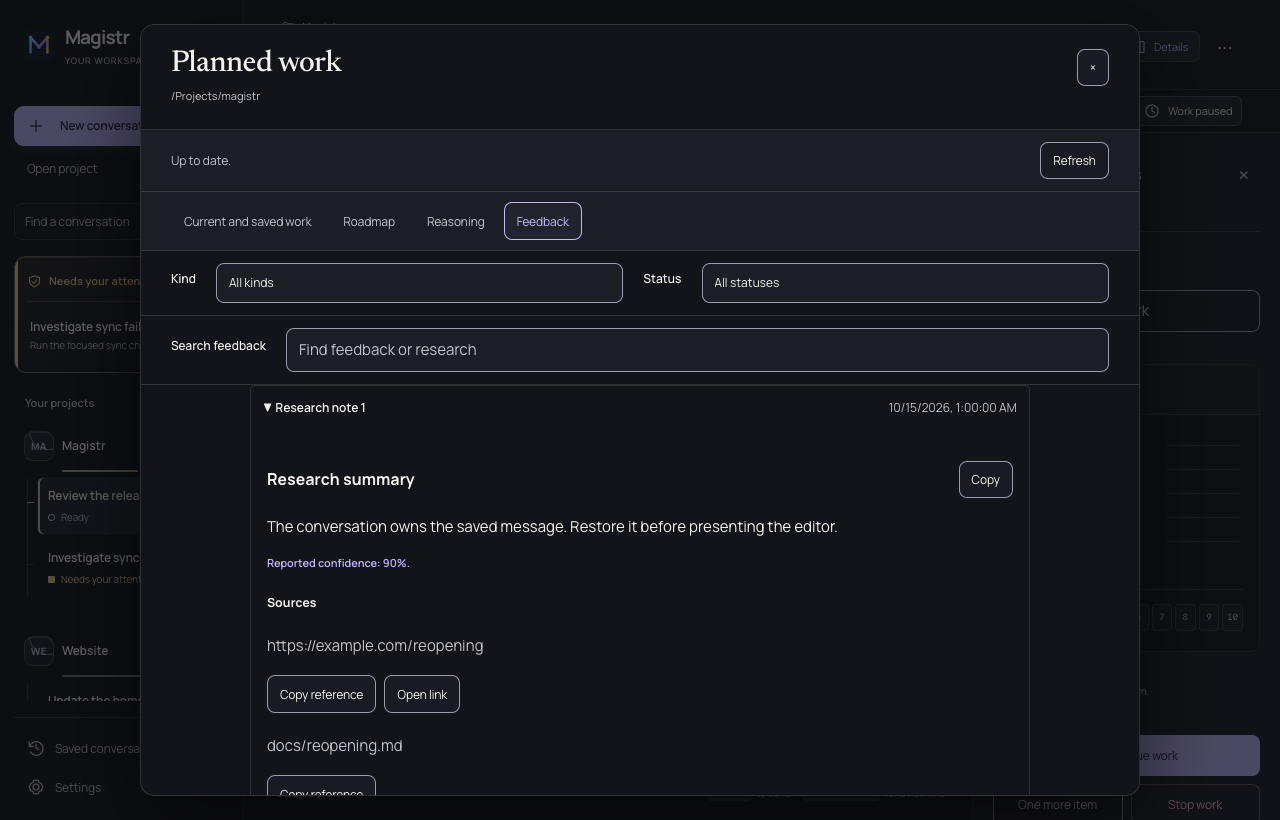
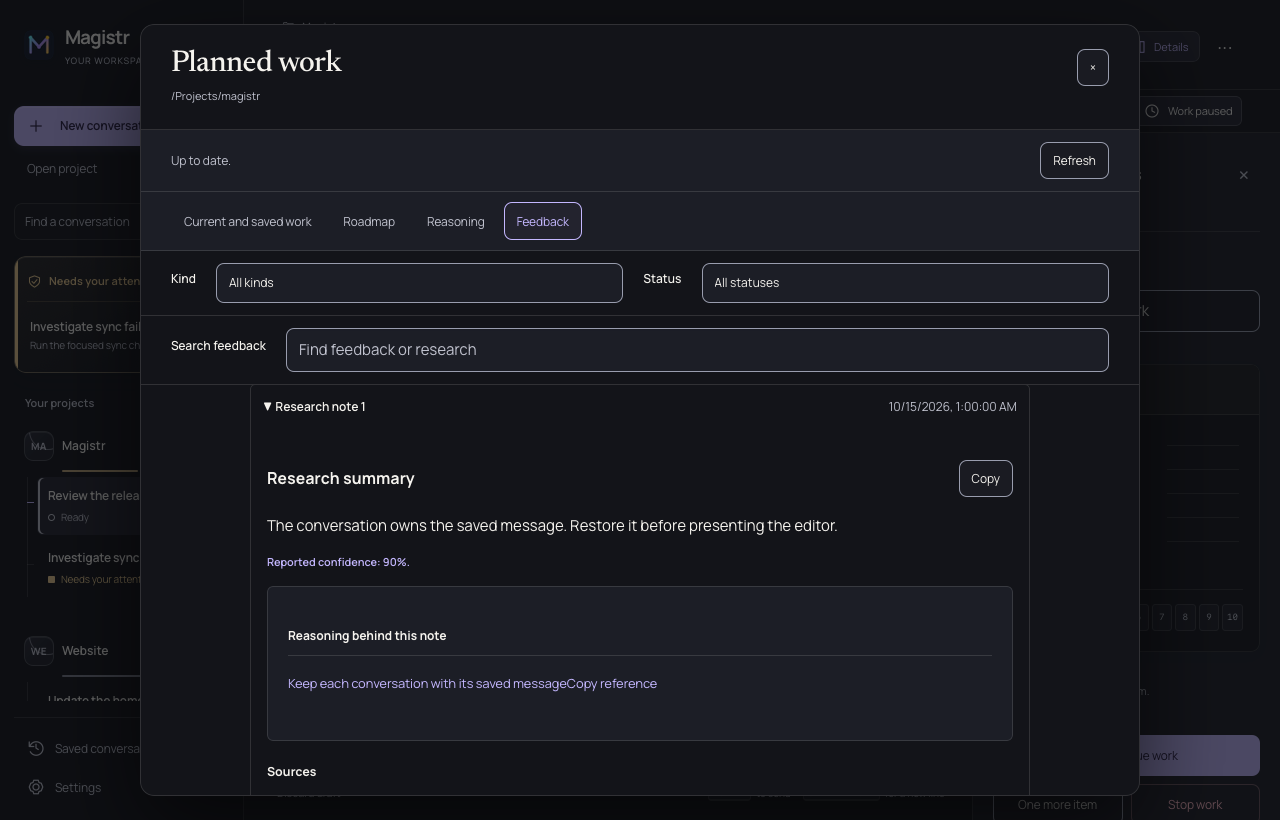
feat(desktop): follow feedback references to work and reasoning

diff --git a/crates/magistr-desktop/ui/index.html b/crates/magistr-desktop/ui/index.html
@@ -126,7 +126,7 @@
 </dialog>
 <dialog id="work-browser" aria-labelledby="work-browser-title">
   <header class="work-browser-heading"><div><h2 id="work-browser-title" tabindex="-1">Planned work</h2><p id="work-browser-project"></p></div><button id="work-browser-close" aria-label="Close planned work">×</button></header>
-  <div class="work-browser-tools"><p id="work-browser-state" role="status"></p><button id="work-browser-refresh">Refresh</button></div>
+  <div class="work-browser-tools"><p id="work-browser-state" role="status"></p><button id="work-browser-return" hidden>Return to feedback</button><button id="work-browser-refresh">Refresh</button></div>
   <nav id="work-browser-tabs" class="work-browser-tabs" role="tablist" aria-label="Work view"><button id="work-tab-work" role="tab" aria-selected="true" aria-controls="work-browser-content" data-work-view="work">Current and saved work</button><button id="work-tab-roadmap" role="tab" aria-selected="false" aria-controls="work-browser-content" tabindex="-1" data-work-view="roadmap">Roadmap</button><button id="work-tab-reasoning" role="tab" aria-selected="false" aria-controls="work-browser-content" tabindex="-1" data-work-view="reasoning">Reasoning</button><button id="work-tab-feedback" role="tab" aria-selected="false" aria-controls="work-browser-content" tabindex="-1" data-work-view="feedback">Feedback</button></nav>
   <div id="work-reasoning-selection" class="work-run-selection" hidden><label for="work-browser-reasoning">Reasoning to inspect</label><select id="work-browser-reasoning"></select><label for="work-browser-branch">Investigation</label><select id="work-browser-branch"></select></div>
   <div id="work-reasoning-search" class="work-run-selection" hidden><label for="work-browser-reasoning-search">Search all reasoning</label><input id="work-browser-reasoning-search" type="search" autocomplete="off" placeholder="Find a recorded decision"></div>

diff --git a/docs/reference/cockpit-modules.md b/docs/reference/cockpit-modules.md
@@ -37,6 +37,7 @@ desktop workspace. Companion Rust tests live beside their owners.
 - `crates/magistr-desktop/ui/work_reasoning_links.mjs` — direct references, revisions and project-wide identity resolution.
 - `crates/magistr-desktop/ui/work_reasoning_branch.mjs` — session-scoped investigations and recorded lifecycle.
 - `crates/magistr-desktop/ui/work_prose.mjs` — complete literal authored prose and exact copying.
+- `crates/magistr-desktop/ui/work_references.mjs` — exact cross-family feedback references and explicit unresolved states.
 - `crates/magistr-desktop/ui/work_feedback_search.mjs` — complete feedback search and saved kind/status filters.
 - `crates/magistr-desktop/ui/work_feedback_research.mjs` — append-only research notes, reported confidence and source references.
 - `crates/magistr-desktop/ui/work_feedback.mjs` — complete feedback browsing and stable record details.
